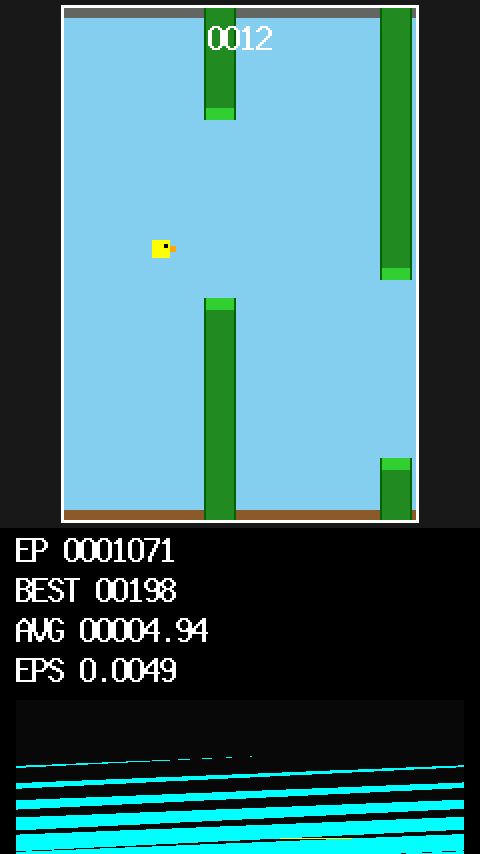
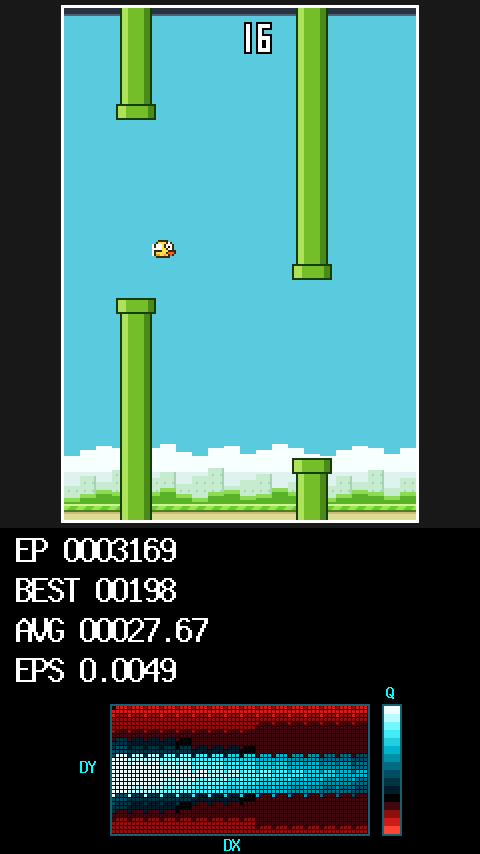
Use the optimized LCD interface image in the SoC capstone section
Claude-Session: https://claude.ai/code/session_01XiqVWiZBBbtPcSiNyU1shn

diff --git a/source/_posts/soc-00-course-overview.md b/source/_posts/soc-00-course-overview.md
@@ -377,8 +377,8 @@ Vitis 程序直接访问 AXI Quad SPI 寄存器，完成片选、发送和接收
 
 <div class="soc-capstone">
   <figure>
-    <a href="/downloads/soc-interface-design/capstone/lcd-frame.png" target="_blank" rel="noopener" title="查看原图"><img src="/downloads/soc-interface-design/capstone/lcd-frame.png" alt="LCD 画面仿真渲染：游戏画面与训练统计" loading="lazy"></a>
-    <figcaption>LCD 画面仿真渲染（480×854）</figcaption>
+    <a href="/downloads/soc-interface-design/capstone/lcd-frame.png" target="_blank" rel="noopener" title="查看原图"><img src="/downloads/soc-interface-design/capstone/lcd-frame.png" alt="优化后的 LCD 界面：游戏画面、训练统计与 Q 表热力图" loading="lazy"></a>
+    <figcaption>优化后的 LCD 界面（训练第 3169 局）</figcaption>
   </figure>
   <div class="soc-stats">
     <div><strong>4.3 → 29.9</strong><span>上板 60 秒内最近 100 局平均分</span></div>
